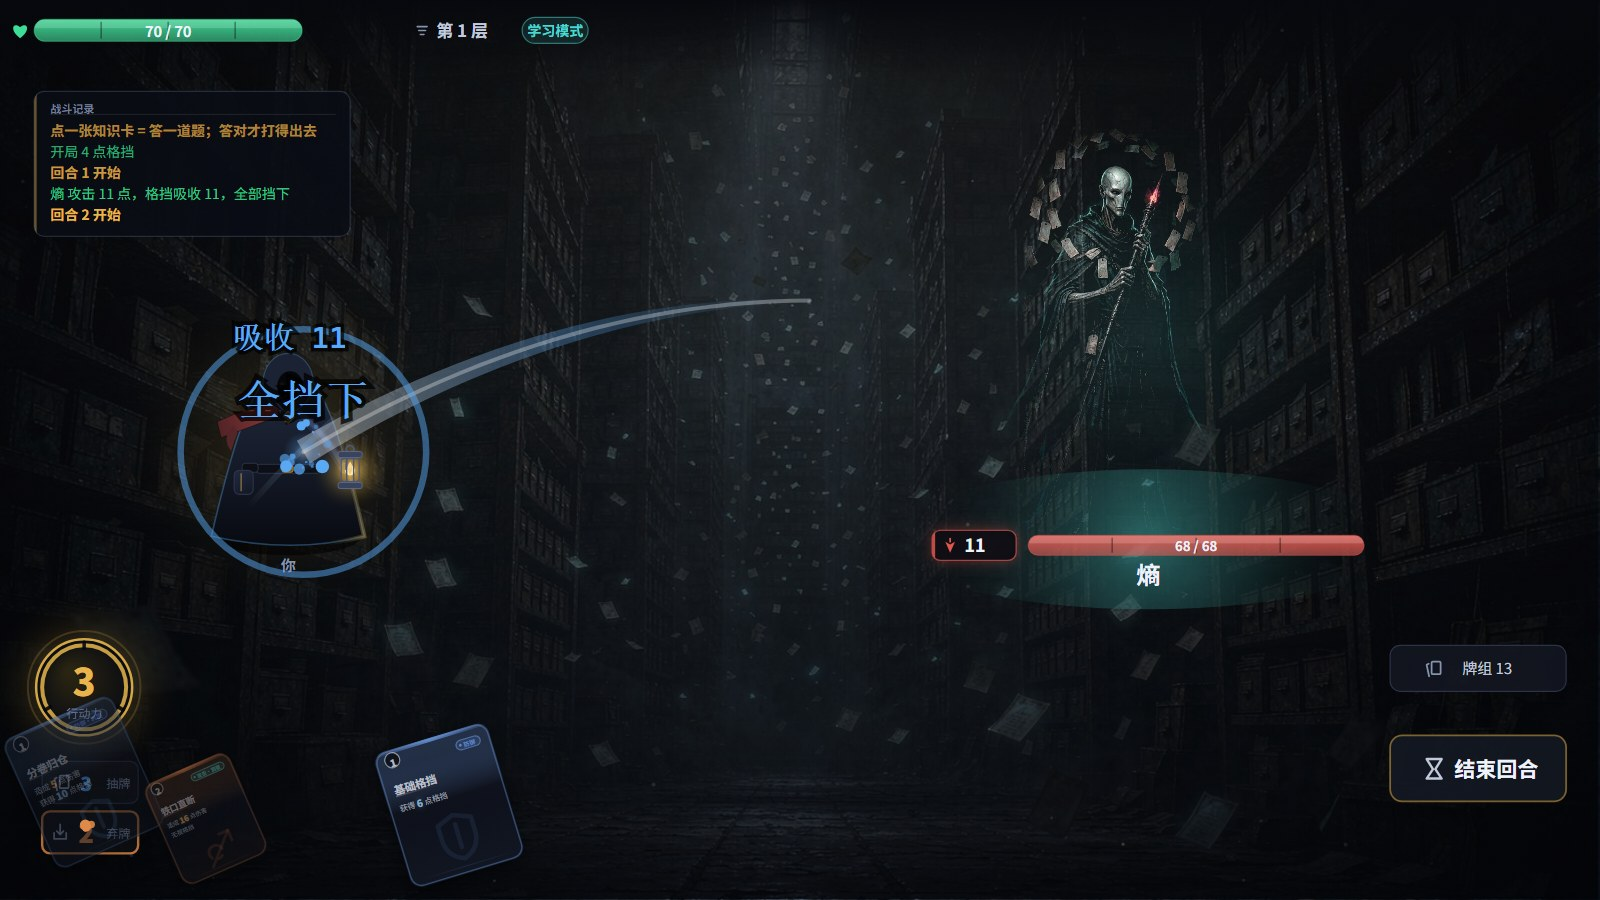
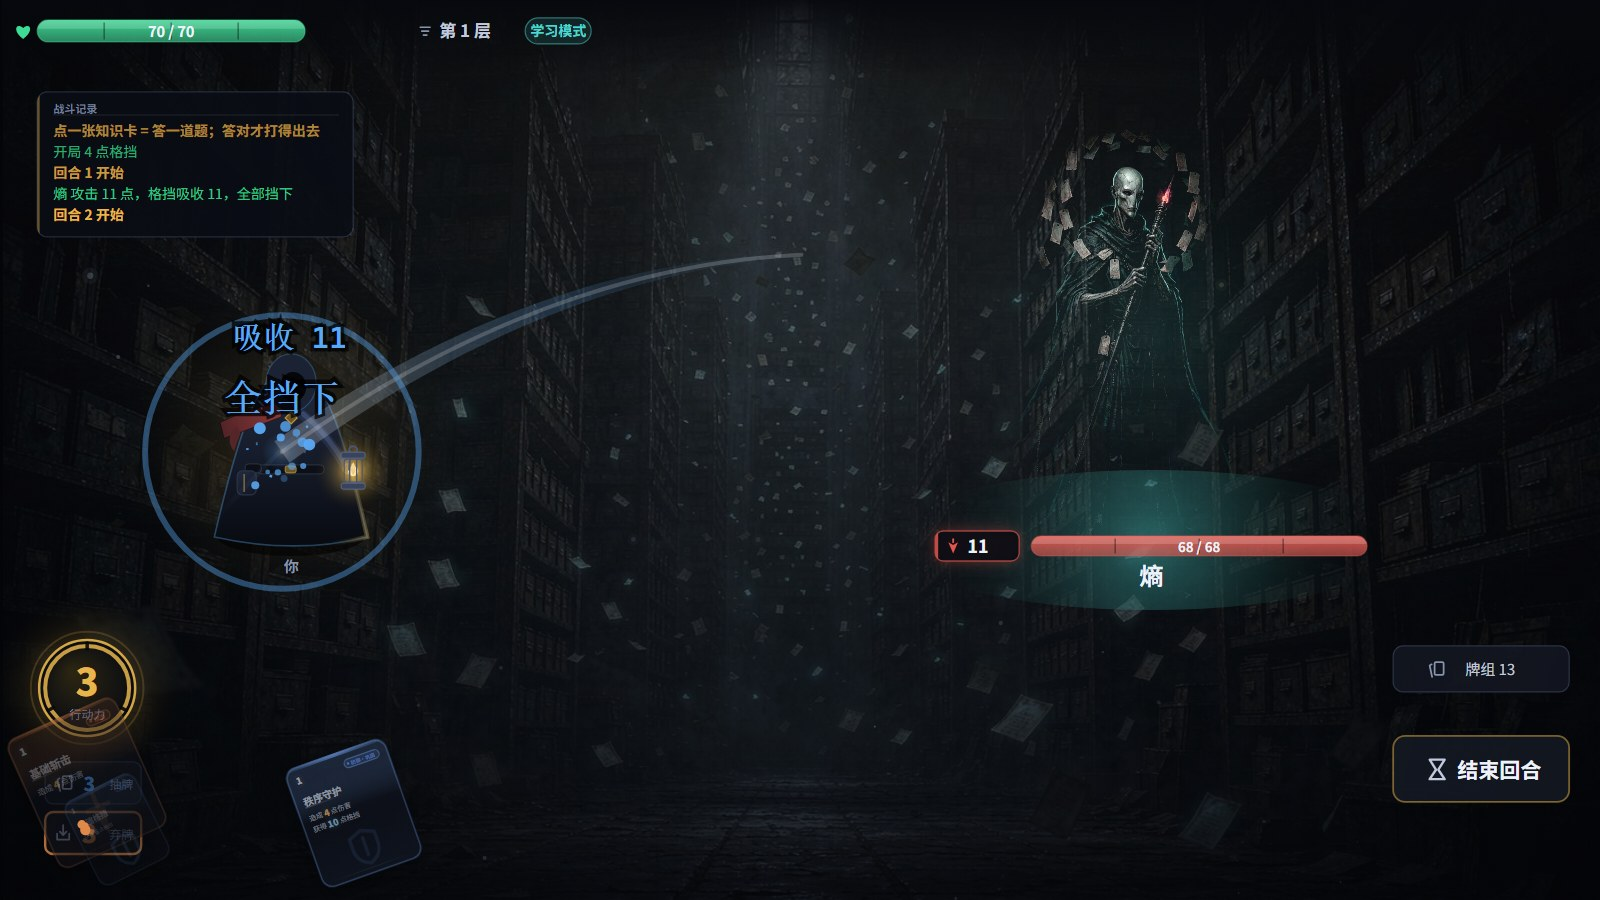
style(cards): 费用去掉圆圈，只留一个带描边的数字
上一版把费用画成一颗球（暗底 + 亮环）。手牌的卡只有 200 宽，球内净空 21px，
塞进一个 800 字重的数字，笔画上下必然贴着环线 —— 放大看就是"数字和圈叠在一起"。
把字号压小，数字又小到不配当关键词。而那个圆本身不带信息：它只说明"这里是费用"，
可牌面左上角本来就只有这一件事。所以整颗撤掉。

- `drawCostOrb` → `drawCostMark`：不画底、不画环，只用暗描边 + 很弱的同色辉光
  把数字从类别色卡面上抠出来 —— 和效果行的伤害数字同一套手法，
  牌面上于是只有一种"数字怎么读"的语言
- 白 = 0–3、金 = X、红 = 付不起；这一回合答错过时随效果行一起压暗
- 左沿与牌名、效果行对齐，纵向与右上徽章同一条中心线（顶部读成"几点 · 什么类别"）
- 纵向居中考 `actualBoundingBox`，不再用手调的 `cy + r * 0.37`：数字没有下伸部分，
  任何"大概往下挪一点"的常数都会让它贴住下沿

check ✓ smoke 25 步 ✓ build 1,164.83 kB ✓ shots 全部重拍（手牌 / 牌组 / 拍得起的红字 /
答错压暗三种状态都看过）。

diff --git a/src/gfx/ui.ts b/src/gfx/ui.ts
@@ -212,42 +212,57 @@ export interface CardOpts {
   /**
    * 现在付不付得起这张牌的费用。只有手牌会传 false —— 牌组、奖励、牌堆列表里
    * 不存在"此刻能不能打"这个问题，传了反而是噪音。
-   * 付不起时费用球转红：点下去会被拦，那就该在点之前就看出来。
+   * 付不起时那个数字转红：点下去会被拦，那就该在点之前就看出来。
    */
   afford?: boolean;
 }
 
 /**
- * 费用球：牌面左上角那个圆。
+ * 左上角的费用：一个光秃秃的数字，或者 X。
  *
- * 三种读法要在巴掌大的牌上也站得住：
- *   - 数字 0–3，或者字母 X（X 费）；
- *   - 金色 = X 费：它的价格是个**变量**，值得一个特别的颜色；
- *   - 红色 = 此刻付不起（手牌才会出现），其余是常态的冷白。
- * 底色永远近黑实心 —— 牌面是从类别色浸下来的，浅色字直接压在橙卡上读不出来。
+ * **这里原来套着一个圆。** 圆是多余的：它不携带任何信息（只说明"这里是费用"，
+ * 而牌面左上角本来就只有这一件事），却占掉一圈直径 —— 手牌的卡只有 200 宽，
+ * 圈内净空 21px，塞一个 800 字重的数字，上下必然贴着环线。先把字号压小，
+ * 数字又小到不像关键词。所以把圈去掉：数字直接把这块地方占满。
+ *
+ * 没有底色之后，数字怎么从类别色卡面上站起来？**用效果行那套同一个手法** ——
+ * 暗描边 + 很弱的同色辉光。于是整张牌只有一种"数字怎么读"的语言：
+ * 描边把形体从背景里抠出来，颜色带语义。
+ *
+ *   - 白 = 常态的 0–3；金 = X（它的价格是个变量）；红 = 此刻付不起（只有手牌会有）。
+ *
+ * 位置：左沿和牌名、效果行对齐，于是左栏是一条竖线；纵向和右上角的类别徽章同一条中心线，
+ * 顶部那一行读起来是"几点 · 什么类别"一整条，而不是两个高度不一的小件。
+ *
+ * 纵向居中读 `actualBoundingBox`，不用手调基线常数：数字没有下伸部分（descent = 0），
+ * 任何"大概往下挪一点"的常数都会让它贴住下沿，而 X 和大写字又要各自微调一次。
  */
-function drawCostOrb(cx: number, cy: number, r: number, glyph: string, o: { x: boolean; afford: boolean }) {
+function drawCostMark(
+  left: number, midY: number, s: number, glyph: string,
+  o: { x: boolean; afford: boolean; dim?: boolean },
+) {
   const col = !o.afford ? C.red : o.x ? C.gold : C.ink;
+  const size = 19 * s;
   g.save();
-  g.beginPath();
-  g.arc(cx, cy, r, 0, Math.PI * 2);
-  g.fillStyle = 'rgba(6,8,13,.9)';
-  g.fill();
-  g.strokeStyle = withAlpha(col, o.afford ? 0.72 : 1);
-  g.lineWidth = Math.max(1.2, r * 0.14);
-  g.stroke();
-  // X 费多一道内环：扫手牌时"这张牌吃光我的行动力"要和"这张要两点"一眼分开
-  if (o.x) {
-    g.beginPath();
-    g.arc(cx, cy, r * 0.72, 0, Math.PI * 2);
-    g.strokeStyle = withAlpha(C.gold, 0.35);
-    g.lineWidth = 1;
-    g.stroke();
-  }
+  g.font = font(size, 800, FONT_UI);
+  g.textAlign = 'left';
+  const m = g.measureText(glyph);
+  // 老浏览器没有 actualBoundingBox：退回 0.72em 的常见 cap height，位置略差但不会跑飞。
+  const asc = m.actualBoundingBoxAscent ?? size * 0.72;
+  const desc = m.actualBoundingBoxDescent ?? 0;
+  const y = midY + (asc - desc) / 2;
+  // 描边先画，再填色：和效果行里的伤害数字同一套宽窄，牌面上"数字"这一族长得一样
+  g.lineJoin = 'round';
+  g.lineWidth = Math.max(2, 3 * s);
+  g.strokeStyle = 'rgba(6,8,13,.9)';
+  g.strokeText(glyph, left, y);
+  g.shadowColor = withAlpha(col, 0.45);
+  g.shadowBlur = 8 * s;
+  // 这一回合答错过了：数字跟着效果行一起压暗。牌面上"现在打不出去"是一个整体状态，
+  // 效果行的数字暗了而费用还亮着，会让人以为只有效果失效。
+  g.fillStyle = o.dim ? withAlpha(col, 0.5) : col;
+  g.fillText(glyph, left, y);
   g.restore();
-  text(glyph, cx, cy + r * 0.37, {
-    size: Math.round(r * 1.3), weight: 800, align: 'center', color: col,
-  });
 }
 
 /**
@@ -362,14 +377,14 @@ export function drawCard(
   g.fillRect(x, y + h - lowH, w, lowH);
   g.restore();
 
-  // ── 费用球：左上角 ─────────────────────────────────────────
+  // ── 费用：左上角，一个数字，没有圈 ──────────────────────────
   // 以前 83 张牌全是 1 点，这个角落空着是对的（印 83 遍同一个数不是信息）。
-  // 现在 0/1/2/3/X 并存，价格成了每张牌最该先读到的一个数。位置沿用杀戮尖塔的左上角，
-  // 但类别徽章已经挪到右上，所以这一角现在是它独占的 —— 上一版两者并排贴着摆，
-  // 手牌一缩小就糊成一团色块。
+  // 现在 0/1/2/3/X 并存，价格成了每张牌最该先读到的一个数。
+  // 纵向和右上角的类别徽章同一条中心线（徽章占 21s–39s，中线 30s）：
+  // 顶部那一行于是读成"几点 · 什么类别"一整条，而不是两个高度不一的小件。
   if (kind !== 'junk') {
-    drawCostOrb(x + pad + 13 * s, y + 20 * s, 14 * s, costGlyph(card), {
-      x: isXCost(card), afford: opts.afford !== false,
+    drawCostMark(x + pad, y + 30 * s, s, costGlyph(card), {
+      x: isXCost(card), afford: opts.afford !== false, dim: sealed,
     });
   }
 
@@ -621,9 +636,9 @@ function drawPowerCard(x: number, y: number, w: number, h: number, p: PowerDef, 
   g.lineWidth = opts.hovered ? 2 : 1.6;
   g.stroke();
 
-  // 费用球和知识卡同一个位置、同一套读法 —— 手牌里两种牌混着，
+  // 费用和知识卡同一个位置、同一套读法 —— 手牌里两种牌混着，
   // "要先答题的"和"不用答题的"可以长得不一样，但"要花几点"必须读得一样。
-  drawCostOrb(x + pad + 13 * s, y + 20 * s, 14 * s, String(p.cost).toUpperCase(), {
+  drawCostMark(x + pad, y + 30 * s, s, String(p.cost).toUpperCase(), {
     x: p.cost === 'x', afford: opts.afford !== false,
   });
 

diff --git a/src/scenes/overlay.ts b/src/scenes/overlay.ts
@@ -751,7 +751,7 @@ function drawHelp() {
       '能力：七种增益牌 —— 本场持续改规则（沙漏多 1 点行动力、索引卡多抽一张……）。',
     ]],
     ['牌面只讲机械，不讲知识', [
-      '卡面上只有费用、类别、牌名、效果和数值。左上角那个圆是费用：0–3 点，或 X（花光行动力，花几点结算几次）。付不起时它会变红。',
+      '卡面上只有费用、类别、牌名、效果和数值。左上角那个数是费用：0–3 点，或 X（花光行动力，花几点结算几次）。付不起时它会变红。',
       '右下角是纹章：八种效果各有原型（攻 / 防 / 技 / 能四类靠顶部色条区分）。这一回合答错过的牌会压暗并改成虚线边框，下回合恢复。',
       '没有主题名、没有知识点名、没有记忆度、更没有题干。所以「折半之刃」背后是哪道题，只能靠点开它知道。',
     ]],

diff --git a/src/scenes/battle.ts b/src/scenes/battle.ts
@@ -975,7 +975,7 @@ function drawHand(t: number, dt: number) {
     g.rotate(rot);
     drawCard(-w / 2, -h / 2, w, h, card, st.atk, st.blk, {
       up: !!ent.up, glow: hv, hovered: hv, state,
-      // 付不起的牌把费用球点红：这一手现在打不出去，得在点之前就看得出来
+      // 付不起的牌费用数字转红：这一手现在打不出去，得在点之前就看得出来
       afford: isJunk || canPay(card),
     });
     g.restore();

diff --git a/src/core/cards/cost.ts b/src/core/cards/cost.ts
@@ -25,7 +25,7 @@ export const costOf = (c: CardDef): CardCost => c.cost ?? DEFAULT_COST;
 
 export const isXCost = (c: CardDef): boolean => costOf(c) === 'x';
 
-/** 牌面费用球里那个字：'0' / '1' / '2' / '3' / 'X'。 */
+/** 牌面左上角那个费用数字：'0' / '1' / '2' / '3' / 'X'。 */
 export const costGlyph = (c: CardDef): string => String(costOf(c)).toUpperCase();
 
 /**

diff --git a/CHANGELOG.md b/CHANGELOG.md
@@ -5,11 +5,17 @@
 ### 卡面：把四层信息排开
 
 问题不是"不好看"，是**信息没有上下之分**。原来的卡面把所有东西挤在顶部四成：
-费用球和类别徽章并排贴着，牌名紧跟着效果，然后下半部四成是一片纯黑，只压着一个
+费用和类别徽章并排贴着，牌名紧跟着效果，然后下半部四成是一片纯黑，只压着一个
 alpha 0.085 的纹章 —— 看上去像没画完。
 
-- **两个角各管一件事。** 费用球回到左上、单独一角；类别徽章从球旁边挪到右上、右对齐。
+- **两个角各管一件事。** 费用回到左上、单独一角；类别徽章从它旁边挪到右上、右对齐。
   上一版两者并排，手牌一缩小就糊成一团色块。
+- **左上角的费用最后没有圆。** 先是画成一颗费用球（暗底 + 亮环），放大到 12 倍看，
+  25px 的净空里塞一个 800 字重的数字，笔画上下必然贴着环线；把字号压小，数字又小到
+  不配当关键词。圆本身不带信息（它只说明"这里是费用"，而左上角本来只有这件事），
+  所以整颗撤掉，只留数字：暗描边 + 很弱的同色辉光，和效果行的伤害数字同一套手法 ——
+  牌面上于是只有一种"数字怎么读"的语言。白 = 0–3、金 = X、红 = 付不起；
+  左沿与牌名对齐，纵向与右上徽章同一条中心线。
 - **牌名下压一条白色渐隐短线**。牌名 19px、效果 13px，两段白字在暗底上原本是同一团，
   得逐行数才知道读到哪。线先是画成类别色，实测在同类色的卡面上读不出来（技能牌的紫线
   压在紫底上等于没画），改白之后八种卡面都稳。
@@ -24,7 +30,7 @@ alpha 0.085 的纹章 —— 看上去像没画完。
 - **精炼标记**从右上角的「精炼」两个字改成名字后面的「+」（杀戮尖塔的写法），
   右上角完整让给类别徽章。
 
-增益牌同步：费用球、右上「能力」徽章、名字下的短线都和知识卡对齐 —— 两种牌混在手牌里，
+增益牌同步：费用数字、右上「能力」徽章、名字下的短线都和知识卡对齐 —— 两种牌混在手牌里，
 "名字"这一层对不齐，一眼就看得出是两套版式。
 
 ### 机制：先把游戏立住，再把答题嵌进去
@@ -100,9 +106,9 @@ alpha 0.085 的纹章 —— 看上去像没画完。
   太肥）；3 费收到 3.3 倍之后再把这 0.1 补回去，回到 58%。不补这一档，熟练胜率会掉十个百分点以上。
 - **四个出牌入口统一门禁**：`askCard`（点牌出题）、`playUnlocked`（免答）、`playBasic`、
   `playPower` 全部先过 `canPay`，付不起就不弹题、不扣牌、不动行动力。战斗画面里
-  付不起的牌，费用球转红；点它只飘一句「行动力不够：这张牌要 N 点」。
-- **卡面左上角新增费用球**（`drawCostOrb`）：近黑实心底，和卡面数字同一个手法，
-  要从八种类别色上立起来；X 费用画成金色并加一圈内环。类别徽章起点随之右移 20px。
+  付不起的牌，费用数字转红；点它只飘一句「行动力不够：这张牌要 N 点」。
+- **卡面左上角新增费用数字**（`drawCostMark`）：X 用金色，付不起转红，
+  暗描边让它从八种类别色上立起来（见上面「卡面」一节：它一度套着一个圆，后来撤掉了）。
 - 模拟机器人补了 `pay()` 过滤 —— **有牌之后不再等于出得去**，不先筛一遍会频繁撞上
   "选中一张付不起的牌然后卡住"。冒烟测试新增三步：2 费牌答对只退回 1 点（3 → 2）、
   付不起的 3 费牌点不出题且行动力不动、X 费牌吃光 3 点并按 3 次结算（3 → 1、`hits.length === 3`）。
@@ -116,7 +122,7 @@ alpha 0.085 的纹章 —— 看上去像没画完。
   是把同一个常量重复 83 遍。这条规则现在只说两次：行动力环里加了「行动力」三个字
   （环上的刻度本来就有"一共几格"），帮助页保留「出牌 1 点」。
   ——**这条后来被费用体系推翻了一半**：费用变成 0–3 与 X 之后它不再是常量，
-  于是回到卡面，换成左上角一颗费用球（见上面的「费用」一节）。同一个位置、
+  于是回到卡面，换成左上角的费用数字（见上面的「费用」一节）。同一个位置、
   同一个理由（要能从类别色上立起来），只是这次它有话要说。
 - **卡面下沿的状态带整条撤了**。原来每张手牌底部都有一枚通栏胶囊，写着「学习 · 答错
   会回来」/「免答 ×1.5」/「本场作废」。那是宽度换成一句话的状态，占掉整张牌六分之一，

diff --git a/README.md b/README.md
@@ -3,7 +3,7 @@
 **用你的知识爬一座塔。**
 
 一张卡就是一个知识点，卡面效果是固定的。**牌面只讲机械，不讲知识**：手牌上只有
-**费用、类别、效果、数值**（费用是左上角那颗球：0–3 点，或 X = 花光剩下的全部行动力）——
+**费用、类别、效果、数值**（费用是左上角那个数：0–3 点，或 X = 花光剩下的全部行动力）——
 没有主题、没有知识点名、没有记忆度、更没有题干。
 **点开这张牌，题和选项才出现**：答对，这一手按卡面原值结算，退回 1 点行动力；
 答错，这一手作废、费用不退，**但补抽一张**，手牌不会枯竭。
